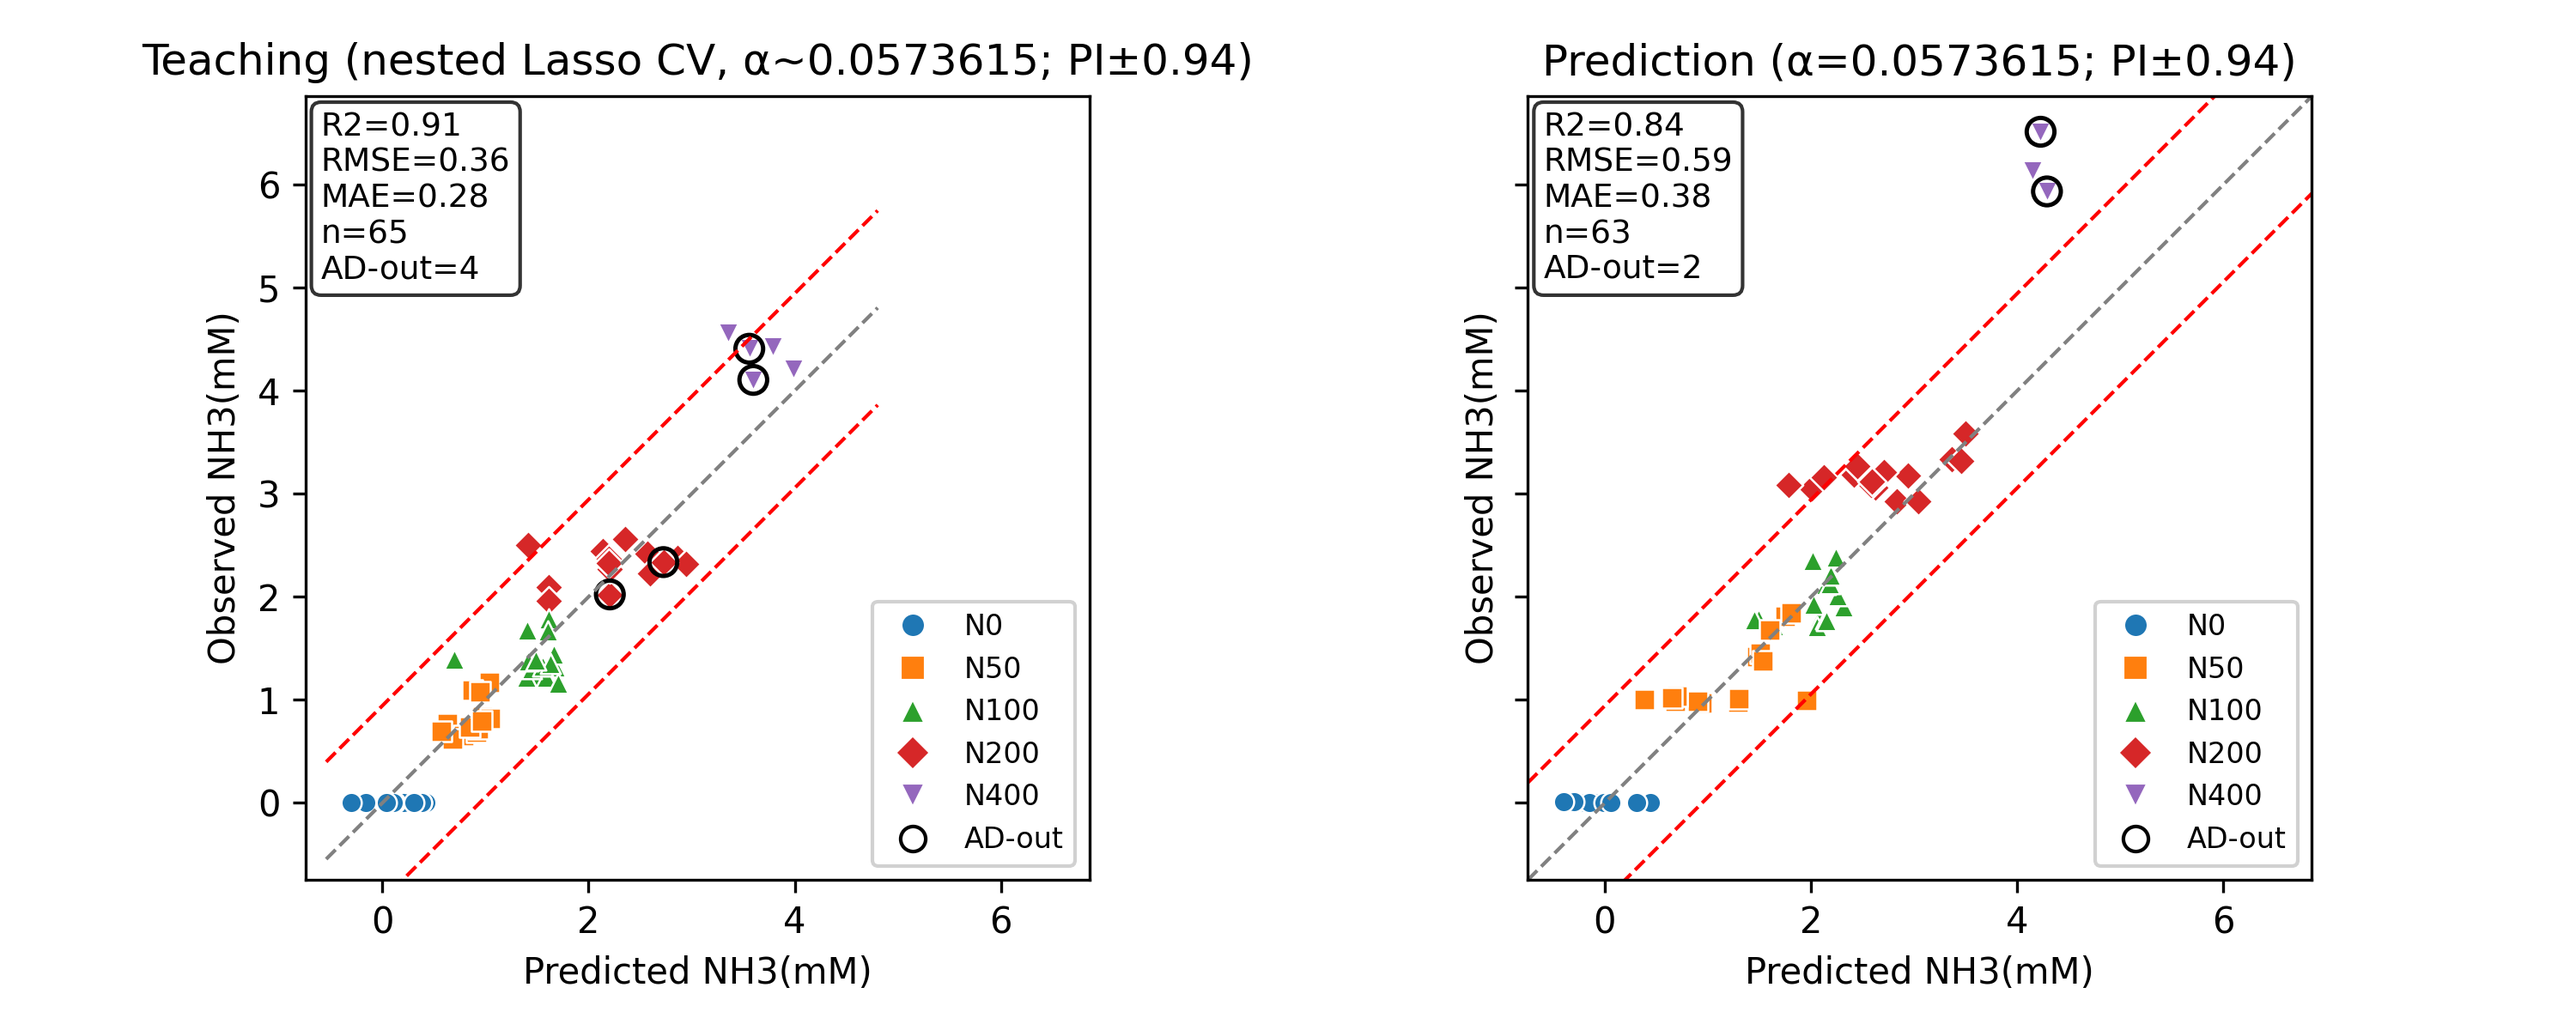
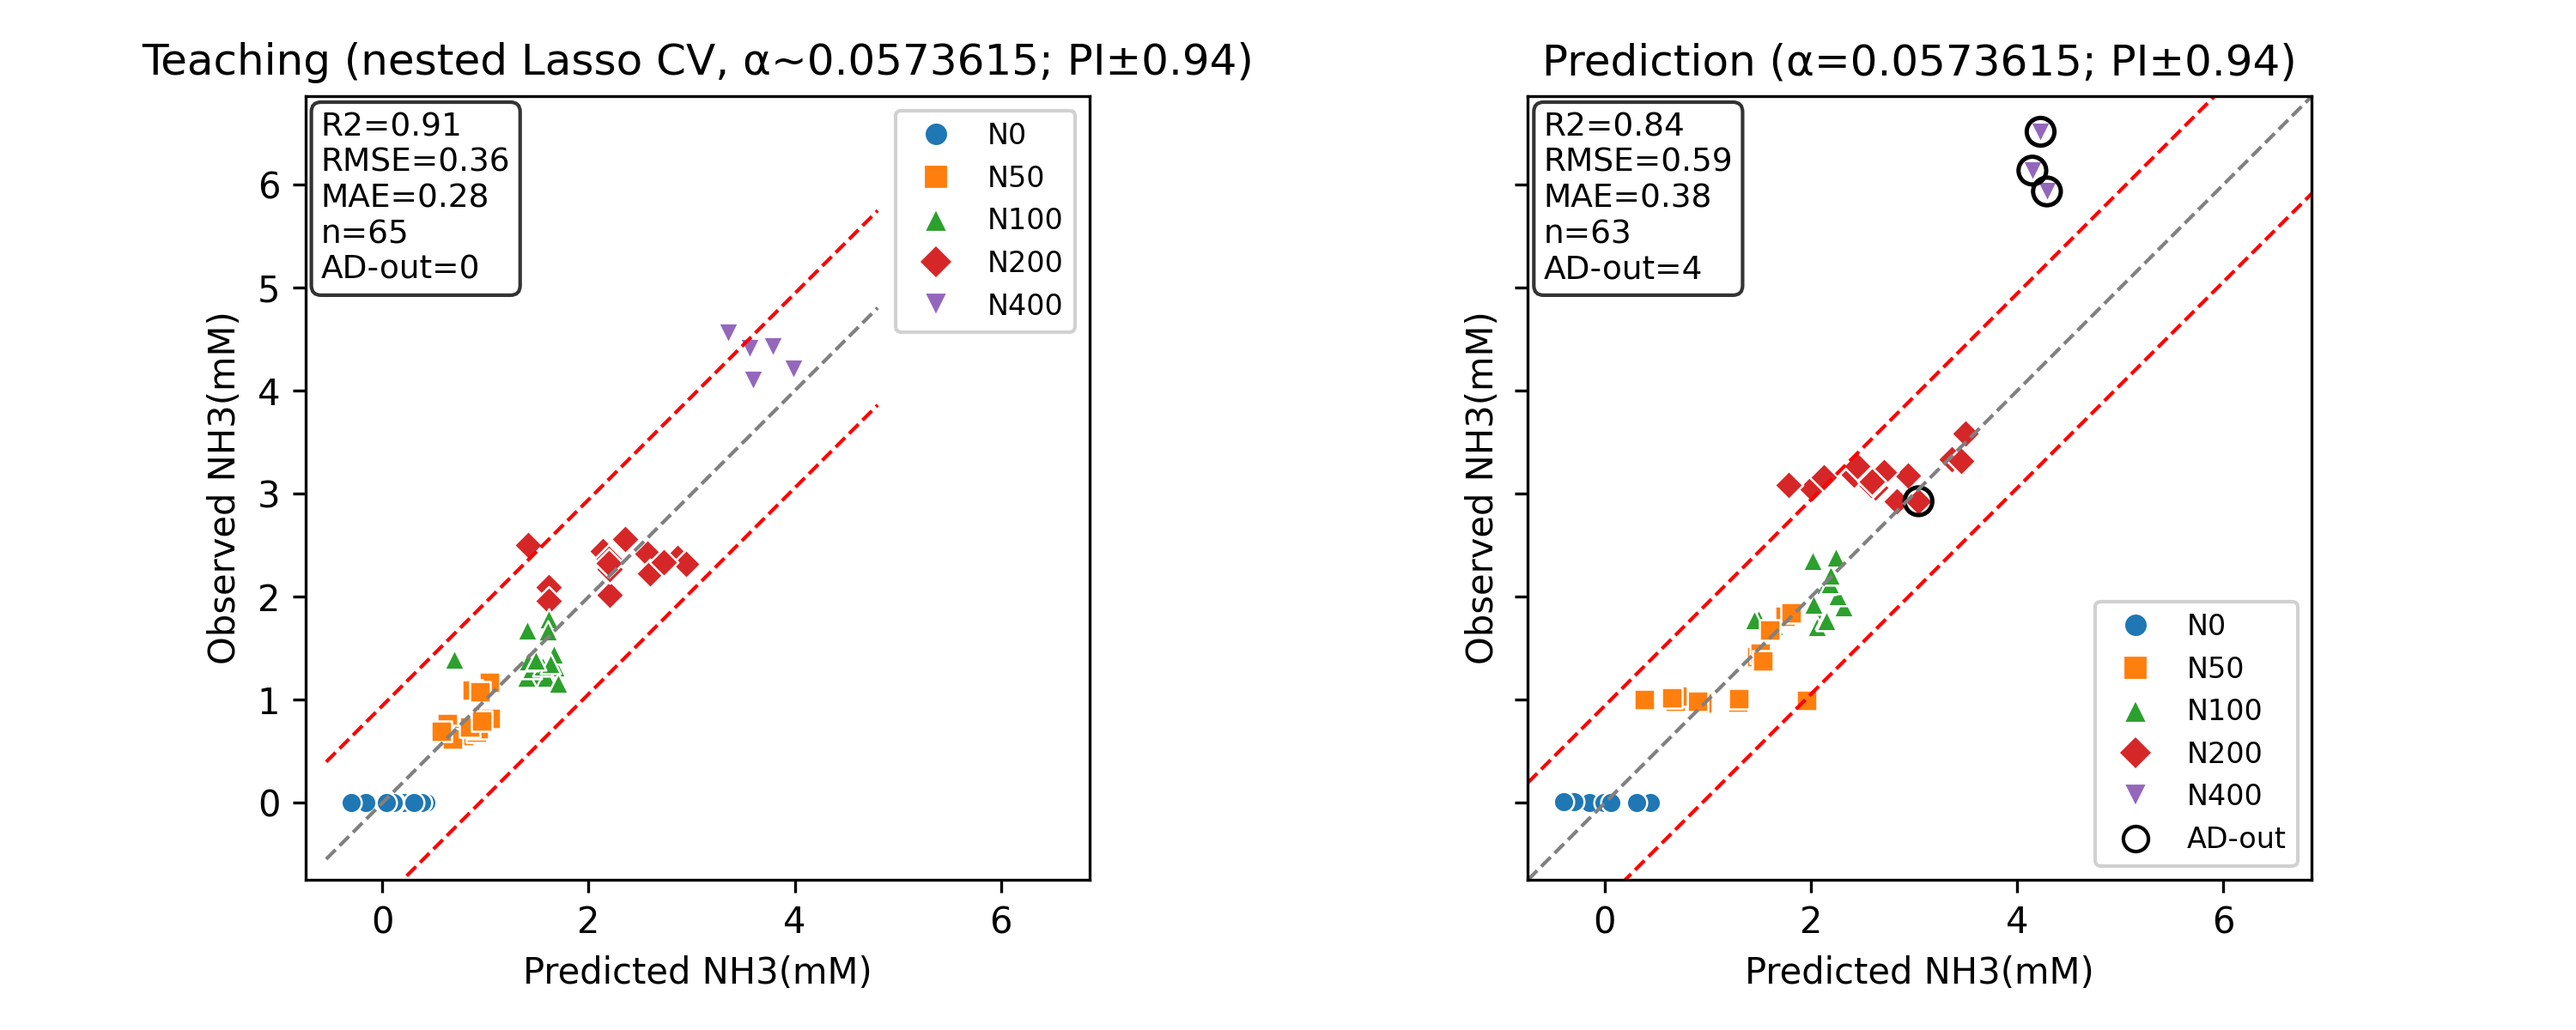
Update README to include repository context and supporting information for research paper

diff --git a/README.md b/README.md
@@ -6,6 +6,8 @@
 
 This folder contains a compact Python script that reproduces the minimum data-processing steps to predict photosynthetic inhibiting product (e.g., free ammonia) using OJIP parameters. It is written to be easy to read rather than feature complete.
 
+This repository is part of the supporting information for [Reagent-Free Prediction of Free-Ammonia Toxicity in Algal Systems Using Chlorophyll Fluorescence Transients and Interpretable Sparse Regression](https://doi.org/10.1021/acs.est.5c18003) by Masatoshi Kishi, Panagiota Karachaliou, Tetsuichi Fujiki, Maki Noguchi Aita, and Raúl Muñoz.
+
 ---
 
 ## 📊 Overview
